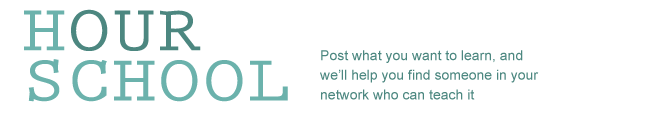
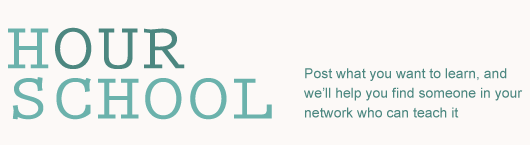
pixels add v3

Changed region(s): [[0.0, 0.062, 0.9962, 0.8372]]

diff --git a/public/stylesheets/hourschool.css b/public/stylesheets/hourschool.css
@@ -1,3 +1,11 @@
+/*......RESET.......*/
+/*...Ensures default variables in different browsers are the same...*/
+* {
+	margin:0px;
+	padding:0px;
+}
+
+
 /*......GENERAL......*/
 
 @font-face {
@@ -20,7 +28,7 @@ a { text-decoration: none;
 
 a:visited {
 	     text-decoration: none;
-	     color: #000;
+	     color: #4C8780;
 	}
 
 
@@ -38,12 +46,22 @@ a:visited {
      margin:auto;
 }
 
-.homepage_title {
+
+.homepage_text {
+	float: clear;
+    width: 600px;
+    font-size: 2em;
+    line-height: 1.225em;
+	margin: 0 auto; 
+	text-align: center;
+    padding-top: 40px;
+color: #666;
 	
+}
+
+.field {
 	 float: clear;
      width: 600px;
-     font-size: 2em;
-     line-height: 1.225em;
 	 margin: 0 auto; 
 	 text-align: center;
      padding-top: 40px;
@@ -51,8 +69,7 @@ a:visited {
 }
 
 
-.textInput
-{
+.textInput {
 	border: 1px dashed #6BB2AC;
 	font-size: 1em;
 }
@@ -72,6 +89,7 @@ a:visited {
 
 #footer_image {
 	padding-left: 550px;
+	margin-bottom: -4px;
 }
 
 #footer_tagline {
@@ -90,14 +108,14 @@ a:visited {
 	height:50px;
 	 margin: 0 auto; 
 	 text-align: center; 
-	color: #98c8d1;
+	color: #4C8780;
 	background-color: #6BB2AC;
 	line-height:2em;
 }
 
 #footer_copyright {
 	 width: 100%;
-	height: 80px; 
+	height: 100%; 
 	 margin: 0 auto; 
 	 text-align: center; 
 	color: #999;

diff --git a/public/stylesheets/scaffold.css b/public/stylesheets/scaffold.css
@@ -1,4 +1,4 @@
-
+body { background-color: #fff; color: #333; }
 
 body, p, ol, ul, td {
   font-family: verdana, arial, helvetica, sans-serif;
@@ -14,7 +14,7 @@ pre {
 
 a { color: #000; }
 a:visited { color: #666; }
-a:hover { color: #fff; background-color:#F46F25; }
+a:hover { color: #fff; background-color:#000; }
 
 div.field, div.actions {
   margin-bottom: 10px;

diff --git a/app/controllers/alphasignups_controller.rb b/app/controllers/alphasignups_controller.rb
@@ -1,0 +1,83 @@
+class AlphasignupsController < ApplicationController
+  # GET /alphasignups
+  # GET /alphasignups.xml
+  def index
+    @alphasignups = Alphasignup.all
+
+    respond_to do |format|
+      format.html # index.html.erb
+      format.xml  { render :xml => @alphasignups }
+    end
+  end
+
+  # GET /alphasignups/1
+  # GET /alphasignups/1.xml
+  def show
+    @alphasignup = Alphasignup.find(params[:id])
+
+    respond_to do |format|
+      format.html # show.html.erb
+      format.xml  { render :xml => @alphasignup }
+    end
+  end
+
+  # GET /alphasignups/new
+  # GET /alphasignups/new.xml
+  def new
+    @alphasignup = Alphasignup.new
+
+    respond_to do |format|
+      format.html # new.html.erb
+      format.xml  { render :xml => @alphasignup }
+    end
+  end
+
+  # GET /alphasignups/1/edit
+  def edit
+    @alphasignup = Alphasignup.find(params[:id])
+  end
+
+  # POST /alphasignups
+  # POST /alphasignups.xml
+  def create
+    @alphasignup = Alphasignup.new(params[:alphasignup])
+
+    respond_to do |format|
+      if @alphasignup.save
+        format.html { redirect_to(@alphasignup, :notice => 'Alphasignup was successfully created.') }
+        format.xml  { render :xml => @alphasignup, :status => :created, :location => @alphasignup }
+      else
+        format.html { render :action => "new" }
+        format.xml  { render :xml => @alphasignup.errors, :status => :unprocessable_entity }
+      end
+    end
+  end
+
+  # PUT /alphasignups/1
+  # PUT /alphasignups/1.xml
+  def update
+    @alphasignup = Alphasignup.find(params[:id])
+
+    respond_to do |format|
+      if @alphasignup.update_attributes(params[:alphasignup])
+        format.html { redirect_to(@alphasignup, :notice => 'Alphasignup was successfully updated.') }
+        format.xml  { head :ok }
+      else
+        format.html { render :action => "edit" }
+        format.xml  { render :xml => @alphasignup.errors, :status => :unprocessable_entity }
+      end
+    end
+  end
+
+  # DELETE /alphasignups/1
+  # DELETE /alphasignups/1.xml
+  def destroy
+    @alphasignup = Alphasignup.find(params[:id])
+    @alphasignup.destroy
+
+    respond_to do |format|
+      format.html { redirect_to(alphasignups_url) }
+      format.xml  { head :ok }
+    end
+  end
+end

diff --git a/test/functional/alphasignups_controller_test.rb b/test/functional/alphasignups_controller_test.rb
@@ -1,0 +1,49 @@
+require 'test_helper'
+
+class AlphasignupsControllerTest < ActionController::TestCase
+  setup do
+    @alphasignup = alphasignups(:one)
+  end
+
+  test "should get index" do
+    get :index
+    assert_response :success
+    assert_not_nil assigns(:alphasignups)
+  end
+
+  test "should get new" do
+    get :new
+    assert_response :success
+  end
+
+  test "should create alphasignup" do
+    assert_difference('Alphasignup.count') do
+      post :create, :alphasignup => @alphasignup.attributes
+    end
+
+    assert_redirected_to alphasignup_path(assigns(:alphasignup))
+  end
+
+  test "should show alphasignup" do
+    get :show, :id => @alphasignup.to_param
+    assert_response :success
+  end
+
+  test "should get edit" do
+    get :edit, :id => @alphasignup.to_param
+    assert_response :success
+  end
+
+  test "should update alphasignup" do
+    put :update, :id => @alphasignup.to_param, :alphasignup => @alphasignup.attributes
+    assert_redirected_to alphasignup_path(assigns(:alphasignup))
+  end
+
+  test "should destroy alphasignup" do
+    assert_difference('Alphasignup.count', -1) do
+      delete :destroy, :id => @alphasignup.to_param
+    end
+
+    assert_redirected_to alphasignups_path
+  end
+end

diff --git a/db/schema.rb b/db/schema.rb
@@ -10,7 +10,14 @@
 #
 # It's strongly recommended to check this file into your version control system.
 
-ActiveRecord::Schema.define(:version => 20110224051910) do
+ActiveRecord::Schema.define(:version => 20110301235333) do
+
+  create_table "alphasignups", :force => true do |t|
+    t.string   "course"
+    t.string   "email"
+    t.datetime "created_at"
+    t.datetime "updated_at"
+  end
 
   create_table "courses", :force => true do |t|
     t.string   "topic"

diff --git a/db/migrate/20110301235333_create_alphasignups.rb b/db/migrate/20110301235333_create_alphasignups.rb
@@ -1,0 +1,14 @@
+class CreateAlphasignups < ActiveRecord::Migration
+  def self.up
+    create_table :alphasignups do |t|
+      t.string :course
+      t.string :email
+
+      t.timestamps
+    end
+  end
+
+  def self.down
+    drop_table :alphasignups
+  end
+end

diff --git a/test/unit/alphasignup_test.rb b/test/unit/alphasignup_test.rb
@@ -1,0 +1,8 @@
+require 'test_helper'
+
+class AlphasignupTest < ActiveSupport::TestCase
+  # Replace this with your real tests.
+  test "the truth" do
+    assert true
+  end
+end

diff --git a/config/routes.rb b/config/routes.rb
@@ -1,4 +1,6 @@
 HourSchool::Application.routes.draw do
+  resources :alphasignups
+
   resources :users
 
   resources :courses

diff --git a/test/unit/helpers/alphasignups_helper_test.rb b/test/unit/helpers/alphasignups_helper_test.rb
@@ -1,0 +1,4 @@
+require 'test_helper'
+
+class AlphasignupsHelperTest < ActionView::TestCase
+end

diff --git a/app/models/alphasignup.rb b/app/models/alphasignup.rb
@@ -1,0 +1,2 @@
+class Alphasignup < ActiveRecord::Base
+end

diff --git a/app/helpers/alphasignups_helper.rb b/app/helpers/alphasignups_helper.rb
@@ -1,0 +1,2 @@
+module AlphasignupsHelper
+end
